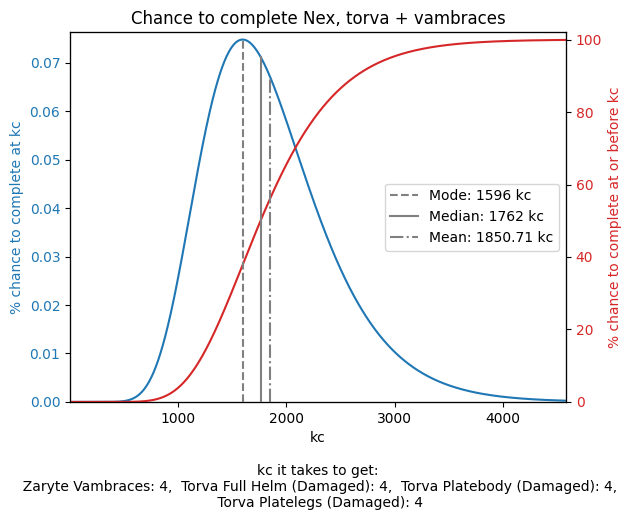
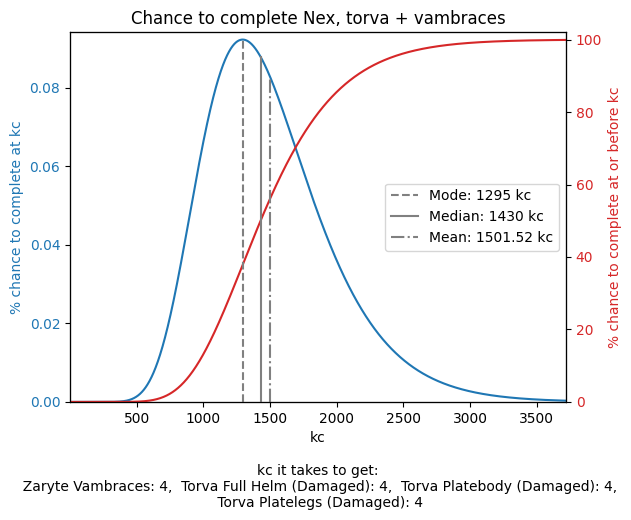
new nex rates and guardians of the rift

diff --git a/bosses.py b/bosses.py
@@ -326,15 +326,19 @@ class zalcano(monster):
     loot_amount = {"crystal tool seed":1, "zalcano shard":1}
     zalcano_shard = {"max_odds":1/750, "min_odds":1/1500}
 
-        
 class wintertodt(monster):
     loot_odds = {"pyromancer outfit":1/150,"bruma torch":1/150,"warm gloves":1/150,"tome of fire":1/1000,"dragon axe":1/10000}
     loot_amount = {"pyromancer outfit":4,"bruma torch":1,"warm gloves":1,"tome of fire":1, "dragon axe":0}
     kc_name = 'loot rolls'
-
+        
 class tempoross(monster):
     loot_odds = {"soaked page":100/5369, "fish barrel":1/400, "tackle box":1/400, "big harpoonfish":1/1600, "Tome of water":1/1600, "dragon harpoon":1/8000}
     loot_amount = {"soaked page":1, "fish barrel":1, "tackle box":1, "big harpoonfish":0, "Tome of water":1, "dragon harpoon":0}
+    kc_name = 'loot rolls'
+
+class guardians_of_the_rift(monster):
+    loot_odds = {"catalytic talisman":1/200, "abyssal needle":1/300, "abyssal lantern":1/700, "tarnished locket":1/1250, "lost bag": 1/1750, "Abyssal green dye": 1/1200, "Abyssal blue dye": 1/1200, "Abyssal red dye": 1/1200}
+    loot_amount = {"catalytic talisman":1, "abyssal needle":1, "abyssal lantern":1, "tarnished locket":1, "lost bag": 0, "Abyssal green dye": 0, "Abyssal blue dye": 0, "Abyssal red dye": 0}
     kc_name = 'loot rolls'
 
 class corrupted_gauntlet(monster):
@@ -476,7 +480,7 @@ class phosanis_nightmare(monster):
         self.teamsize = teamsize
 
 class nex(monster):
-    loot_odds = {"Zaryte vambraces":1/212,"Torva full helm (damaged)":1/318,"Torva platebody (damaged)":1/318, "Torva platelegs (damaged)":1/318, "Nihil horn":1/318, "Ancient hilt":1/636}
+    loot_odds = {"Zaryte vambraces":1/172,"Torva full helm (damaged)":1/258,"Torva platebody (damaged)":1/258, "Torva platelegs (damaged)":1/258, "Nihil horn":1/258, "Ancient hilt":1/516}
     loot_amount = {"Zaryte vambraces":1,"Torva full helm (damaged)":1,"Torva platebody (damaged)":1, "Torva platelegs (damaged)":1, "Nihil horn":1, "Ancient hilt":1}
 
 
@@ -557,6 +561,70 @@ class barrows(monster):
         for i in range(new,8):
             odds += math.comb(7,i) * (1/102)**i * (101/102)**(7-i) * math.comb(i, new) * reduce(mul, [((24 - gotten - j) / (24 - j)) for j in range(new)], 1) * reduce(mul, [(1 - (24 - new - gotten - j) / (24 - new - j)) for j in range(i - new)], 1)
         return odds
+
+
+class easy_clues(monster):
+    loot_odds = {"Amulet of magic (t)": 1/360, "Wooden shield (g)": 1/1404, "Black full helm (t)": 1/1404, "Black platebody (t)": 1/1404, "Black platelegs (t)": 1/1404, "Black plateskirt (t)": 1/1404, "Black kiteshield (t)": 1/1404, "Black full helm (g)": 1/1404, "Black platebody (g)": 1/1404, "Black platelegs (g)": 1/1404, "Black plateskirt (g)": 1/1404, "Black kiteshield (g)": 1/1404, "Black shield (h1)": 1/1404, "Black shield (h2)": 1/1404, "Black shield (h3)": 1/1404, "Black shield (h4)": 1/1404, "Black shield (h5)": 1/1404, "Black helm (h1)": 1/1404, "Black helm (h2)": 1/1404, "Black helm (h3)": 1/1404, "Black helm (h4)": 1/1404, "Black helm (h5)": 1/1404, "Black platebody (h1)": 1/1404, "Black platebody (h2)": 1/1404, "Black platebody (h3)": 1/1404, "Black platebody (h4)": 1/1404, "Black platebody (h5)": 1/1404, "Steel full helm (t)": 1/1404, "Steel platebody (t)": 1/1404, "Steel platelegs (t)": 1/1404, "Steel plateskirt (t)": 1/1404, "Steel kiteshield (t)": 1/1404, "Steel full helm (g)": 1/1404, "Steel platebody (g)": 1/1404, "Steel platelegs (g)": 1/1404, "Steel plateskirt (g)": 1/1404, "Steel kiteshield (g)": 1/1404, "Iron full helm (t)": 1/1404, "Iron platebody (t)": 1/1404, "Iron platelegs (t)": 1/1404, "Iron plateskirt (t)": 1/1404, "Iron kiteshield (t)": 1/1404, "Iron full helm (g)": 1/1404, "Iron platebody (g)": 1/1404, "Iron platelegs (g)": 1/1404, "Iron plateskirt (g)": 1/1404, "Iron kiteshield (g)": 1/1404, "Bronze full helm (t)": 1/1404, "Bronze platebody (t)": 1/1404, "Bronze platelegs (t)": 1/1404, "Bronze plateskirt (t)": 1/1404, "Bronze kiteshield (t)": 1/1404, "Bronze full helm (g)": 1/1404, "Bronze platebody (g)": 1/1404, "Bronze platelegs (g)": 1/1404, "Bronze plateskirt (g)": 1/1404, "Bronze kiteshield (g)": 1/1404, "Studded body (g)": 1/1404, "Studded chaps (g)": 1/1404, "Studded body (t)": 1/1404, "Studded chaps (t)": 1/1404, "Leather body (g)": 1/1404, "Leather chaps (g)": 1/1404, "Blue wizard hat (g)": 1/1404, "Blue wizard robe (g)": 1/1404, "Blue skirt (g)": 1/1404, "Blue wizard hat (t)": 1/1404, "Blue wizard robe (t)": 1/1404, "Blue skirt (t)": 1/1404, "Black wizard hat (g)": 1/1404, "Black wizard robe (g)": 1/1404, "Black skirt (g)": 1/1404, "Black wizard hat (t)": 1/1404, "Black wizard robe (t)": 1/1404, "Black skirt (t)": 1/1404, "Saradomin robe top": 1/1404, "Saradomin robe legs": 1/1404, "Guthix robe top": 1/1404, "Guthix robe legs": 1/1404, "Zamorak robe top": 1/1404, "Zamorak robe legs": 1/1404, "Ancient robe top": 1/1404, "Ancient robe legs": 1/1404, "Armadyl robe top": 1/1404, "Armadyl robe legs": 1/1404, "Bandos robe top": 1/1404, "Bandos robe legs": 1/1404, "Bob's red shirt": 1/1404, "Bob's green shirt": 1/1404, "Bob's blue shirt": 1/1404, "Bob's black shirt": 1/1404, "Bob's purple shirt": 1/1404, "Highwayman mask": 1/1404, "Blue beret": 1/1404, "Black beret": 1/1404, "Red beret": 1/1404, "White beret": 1/1404, "A powdered wig": 1/1404, "Beanie": 1/1404, "Imp mask": 1/1404, "Goblin mask": 1/1404, "Sleeping cap": 1/1404, "Flared trousers": 1/1404, "Pantaloons": 1/1404, "Black cane": 1/1404, "Staff of bob the cat": 1/1404, "Amulet of power (t)": 1/1404, "Ham joint": 1/1404, "Rain bow": 1/1404, "Golden chef's hat": 1/2808, "Golden apron": 1/2808, "Red elegant shirt": 1/2808, "Red elegant blouse": 1/2808, "Red elegant legs": 1/2808, "Red elegant skirt": 1/2808, "Green elegant shirt": 1/2808, "Green elegant blouse": 1/2808, "Green elegant legs": 1/2808, "Green elegant skirt": 1/2808, "Blue elegant shirt": 1/2808, "Blue elegant blouse": 1/2808, "Blue elegant legs": 1/2808, "Blue elegant skirt": 1/2808, "Team cape zero": 1/5616, "Team cape i": 1/5616, "Team cape x": 1/5616, "Cape of skulls": 1/5616, "Monk's robe top (g)": 1/14040, "Monk's robe (g)": 1/14040,  }
+    
+    loot_amount = {"Amulet of magic (t)": 1, "Wooden shield (g)": 1, "Black full helm (t)": 1, "Black platebody (t)": 1, "Black platelegs (t)": 1, "Black plateskirt (t)": 1, "Black kiteshield (t)": 1, "Black full helm (g)": 1, "Black platebody (g)": 1, "Black platelegs (g)": 1, "Black plateskirt (g)": 1, "Black kiteshield (g)": 1, "Black shield (h1)": 1, "Black shield (h2)": 1, "Black shield (h3)": 1, "Black shield (h4)": 1, "Black shield (h5)": 1, "Black helm (h1)": 1, "Black helm (h2)": 1, "Black helm (h3)": 1, "Black helm (h4)": 1, "Black helm (h5)": 1, "Black platebody (h1)": 1, "Black platebody (h2)": 1, "Black platebody (h3)": 1, "Black platebody (h4)": 1, "Black platebody (h5)": 1, "Steel full helm (t)": 1, "Steel platebody (t)": 1, "Steel platelegs (t)": 1, "Steel plateskirt (t)": 1, "Steel kiteshield (t)": 1, "Steel full helm (g)": 1, "Steel platebody (g)": 1, "Steel platelegs (g)": 1, "Steel plateskirt (g)": 1, "Steel kiteshield (g)": 1, "Iron full helm (t)": 1, "Iron platebody (t)": 1, "Iron platelegs (t)": 1, "Iron plateskirt (t)": 1, "Iron kiteshield (t)": 1, "Iron full helm (g)": 1, "Iron platebody (g)": 1, "Iron platelegs (g)": 1, "Iron plateskirt (g)": 1, "Iron kiteshield (g)": 1, "Bronze full helm (t)": 1, "Bronze platebody (t)": 1, "Bronze platelegs (t)": 1, "Bronze plateskirt (t)": 1, "Bronze kiteshield (t)": 1, "Bronze full helm (g)": 1, "Bronze platebody (g)": 1, "Bronze platelegs (g)": 1, "Bronze plateskirt (g)": 1, "Bronze kiteshield (g)": 1, "Studded body (g)": 1, "Studded chaps (g)": 1, "Studded body (t)": 1, "Studded chaps (t)": 1, "Leather body (g)": 1, "Leather chaps (g)": 1, "Blue wizard hat (g)": 1, "Blue wizard robe (g)": 1, "Blue skirt (g)": 1, "Blue wizard hat (t)": 1, "Blue wizard robe (t)": 1, "Blue skirt (t)": 1, "Black wizard hat (g)": 1, "Black wizard robe (g)": 1, "Black skirt (g)": 1, "Black wizard hat (t)": 1, "Black wizard robe (t)": 1, "Black skirt (t)": 1, "Saradomin robe top": 1, "Saradomin robe legs": 1, "Guthix robe top": 1, "Guthix robe legs": 1, "Zamorak robe top": 1, "Zamorak robe legs": 1, "Ancient robe top": 1, "Ancient robe legs": 1, "Armadyl robe top": 1, "Armadyl robe legs": 1, "Bandos robe top": 1, "Bandos robe legs": 1, "Bob's red shirt": 1, "Bob's green shirt": 1, "Bob's blue shirt": 1, "Bob's black shirt": 1, "Bob's purple shirt": 1, "Highwayman mask": 1, "Blue beret": 1, "Black beret": 1, "Red beret": 1, "White beret": 1, "A powdered wig": 1, "Beanie": 1, "Imp mask": 1, "Goblin mask": 1, "Sleeping cap": 1, "Flared trousers": 1, "Pantaloons": 1, "Black cane": 1, "Staff of bob the cat": 1, "Amulet of power (t)": 1, "Ham joint": 1, "Rain bow": 1, "Golden chef's hat": 1, "Golden apron": 1, "Red elegant shirt": 1, "Red elegant blouse": 1, "Red elegant legs": 1, "Red elegant skirt": 1, "Green elegant shirt": 1, "Green elegant blouse": 1, "Green elegant legs": 1, "Green elegant skirt": 1, "Blue elegant shirt": 1, "Blue elegant blouse": 1, "Blue elegant legs": 1, "Blue elegant skirt": 1, "Team cape zero": 1, "Team cape i": 1, "Team cape x": 1, "Cape of skulls": 1, "Monk's robe top (g)": 1, "Monk's robe (g)": 1,  }
+
+    loot_rolls = 3
+
+    def roll_loot(self):
+        loot = []
+        for _ in range(self.loot_rolls):
+            l = random.choice(list(self.loot_odds.keys()))
+            loot += [l]
+
+        return loot
+
+    def convertToTotals(self):
+        self.loot_totals = {}
+        
+        for _, v in self.loot_odds.items():
+            self.loot_totals[v] = 1 if v not in self.loot_totals.keys() else self.loot_totals[v] + 1
+
+        print(self.loot_totals)
+
+    def convertToMarkovChain(self):
+        self.convertToTotals()
+        self.absorbingMatrix = self.constructMatrix()
+        return self.group_size == 1
+
+    def constructMatrix(self):
+        self.nStates = 2 ** len(self.loot_totals.keys()) * reduce(mul, self.loot_totals.keys())
+        data = []
+        rowIndex = []
+        colIndex = []
+        for i in range(0,self.nStates):
+            rowTotal = 0
+
+            for lootIndex, (odds, total) in enumerate(self.loot_totals.items()):
+                state = self.indexToState(i, self.loot_totals)
+                
+                # if we already enough of this item group skip it
+                if(state[lootIndex] >= total):
+                    continue
+                
+                odds = self.itemOdds(odds, state[lootIndex], total)
+                data += [odds]
+                rowTotal += odds
+                rowIndex += [i]
+                colIndex += [i + j]
+
+            # add the diagonal
+            data += [1-rowTotal]
+            rowIndex += [i]
+            colIndex += [i]
+        
+        data = np.array(data)
+        rowIndex = np.array(rowIndex, dtype='int')
+        colIndex = np.array(colIndex, dtype='int')
+        return coo_matrix((data, (rowIndex, colIndex)), shape=(self.nStates,self.nStates)).tocsr()
+
+    def itemOdds(self, baseOdds, current, total):
+        # state is an array with the number of items collected per drop rate
+        return baseOdds * current / total
 
 
 class theatre_of_blood(monster):
@@ -738,5 +806,6 @@ def allBosses():
         kril_tsutsaroth(),
         kree_arra(),
         chaos_elemental(),
-        theatre_of_blood_hard_mode()
+        theatre_of_blood_hard_mode(),
+        guardians_of_the_rift()
     ]
